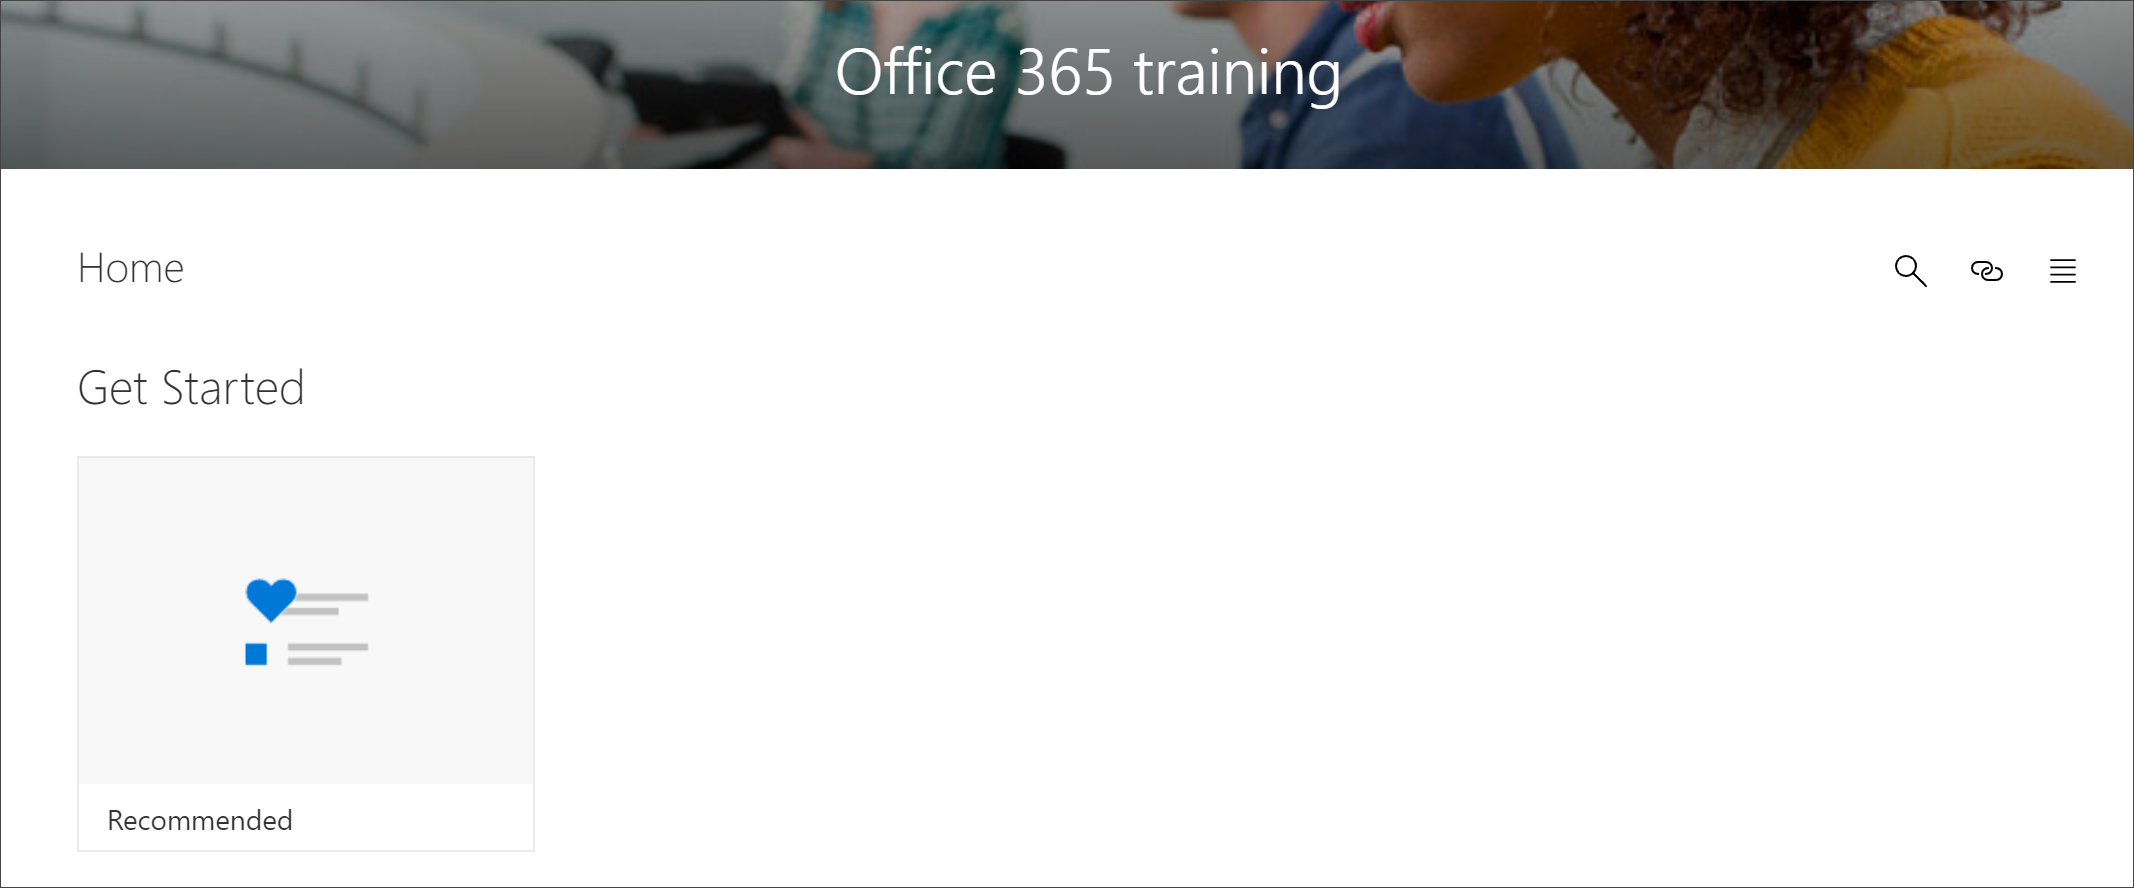
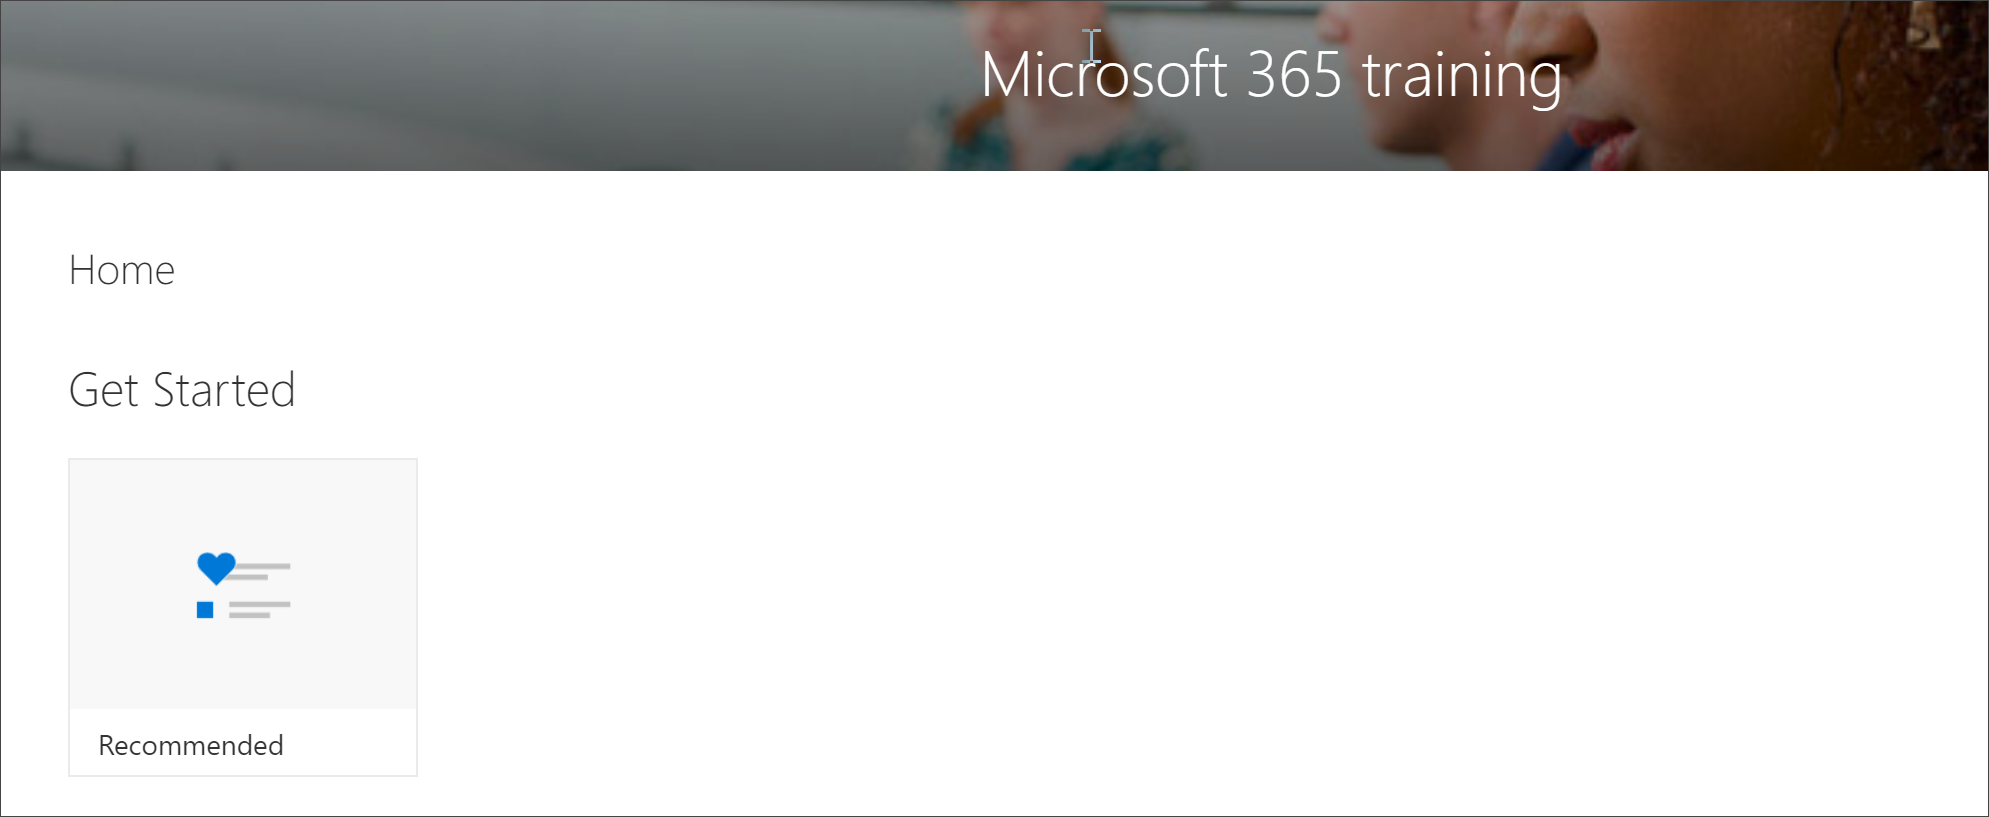
refresh update

diff --git a/CustomLearning/custom_hideshowsub.md b/CustomLearning/custom_hideshowsub.md
@@ -12,8 +12,8 @@ With Microsoft Learning Administration, you can hide and show subcategories. For
 
 ## Hide a subcategory 
 
-1. From the Microsoft 365 lLearning pathways Home page, click the **Microsoft 365 training** tile.
-2. From the Microsoft 365 learning pathwasy Web part, select the System menu, then select **Administer Playlist**. You should now have two tabs open: One with the **Custom Learning Administration** page, and one with the **Microsoft 365 training** page. 
+1. From the Microsoft 365 learning pathways Home page, click the **Recommended** tile.
+2. From the Microsoft 365 learning pathways Web part, select the System menu, then select **Administer Playlist**. You should now have two tabs open: One with the **Custom Learning Administration** page, and one with the **Microsoft 365 training** page. 
 3. From the **Custom Learning Administration** page, under **Category**, select a subcategory, and then select the eyeball for the subcategory to hide it. For this example, hide the **Yammer** subcategory.  
 
 ![cg-hidesubcat.png](media/cg-hidesubcat.png)
